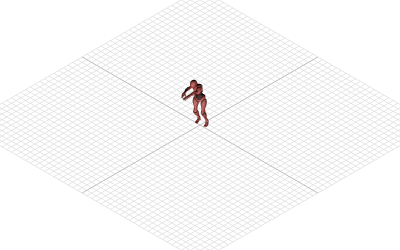
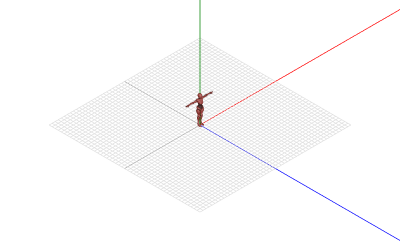
feat: :sparkles: animate control

diff --git a/src/animate/animateControl.js b/src/animate/animateControl.js
@@ -2,7 +2,7 @@
  * @Author: wuyifan0203 1208097313@qq.com
  * @Date: 2024-10-31 11:16:20
  * @LastEditors: wuyifan0203 1208097313@qq.com
- * @LastEditTime: 2024-11-04 18:17:51
+ * @LastEditTime: 2024-11-05 15:20:31
  * @FilePath: \threejs-demo\src\animate\animateControl.js
  * Copyright (c) 2024 by wuyifan email: 1208097313@qq.com, All Rights Reserved.
  */
@@ -55,21 +55,20 @@ const keyPressed = {
 async function init() {
   const renderer = initRenderer({});
 
-  const defaultPosition = new Vector3(100, -100, 100)
+  const defaultPosition = new Vector3(-100, 100, 100)
 
   const camera = initOrthographicCamera(defaultPosition);
   camera.lookAt(0, 0, 0);
-  camera.up.set(0, 0, 1);
-  camera.zoom = 0.5;
   camera.updateProjectionMatrix();
 
   const scene = initScene();
-  initCustomGrid(scene);
+  const grid = initCustomGrid(scene);
+  grid.rotateX(Math.PI / 2);
   initAxesHelper(scene);
   const orbitControl = initOrbitControls(camera, renderer.domElement);
 
   const light = initDirectionLight();
-  light.position.set(45, -50, 0);
+  light.position.copy(defaultPosition);
   scene.add(light);
 
   const loader = new FBXLoader();
@@ -77,8 +76,6 @@ async function init() {
   const walkGroup = await loader.loadAsync(`../../${modelPath}/ZombieWalk.fbx`);
   walkGroup.scale.set(0.05, 0.05, 0.05);
   const model = new Object3D();
-  model.up.set(0, 0, 1);
-  model.lookAt(0, 1, 0);
   model.add(walkGroup);
   scene.add(model);
 
@@ -143,7 +140,6 @@ async function init() {
     Object.values(actionMap).forEach((action) => {
       action.timeScale = 1;
       action.reset();
-      action.play();
     });
 
     params.currentActionTimeScale = mixer.timeScale = 1;
@@ -154,15 +150,23 @@ async function init() {
   function changeMode() {
     if (params.mode === 'common') {
       commonFolder.show();
-      // orbitControl.enabled = true;
+      orbitControl.enabled = true;
+      changeAction();
+      camera.zoom = 0.5;
+      orbitControl.target.set(0, 0, 0);
+      camera.position.copy(defaultPosition);
+      orbitControl.update();
+      camera.updateProjectionMatrix();
     } else {
       commonFolder.hide();
       model.position.set(0, 0, 0);
       orbitControl.target.set(0, 0, 0);
       camera.position.copy(defaultPosition);
+      camera.zoom = 0.32;
       orbitControl.update();
-      // orbitControl.enabled = false;
-      idleAction.fadeIn(0.5);
+      camera.updateProjectionMatrix();
+      orbitControl.enabled = false;
+      idleAction.reset().fadeIn(0.5).play();
       currentAction = idleAction;
     }
   }
@@ -180,6 +184,7 @@ async function init() {
     if (walkKey.includes(key)) {
       startWalking();
     }
+    walkAction.timeScale = keyPressed.shift ? 5 : 1; // 如果按下Shift键，加速动画播放速度
     updateSpeed();
   });
 
@@ -188,7 +193,6 @@ async function init() {
       crossFade(idleAction, walkAction, 0.5);
       isWalking = true
     }
-    walkAction.setEffectiveTimeScale(keyPressed.shift ? 3 : 1); // 如果按下Shift键，加速动画播放速度
     updateDirection(model);
   }
 
@@ -200,7 +204,7 @@ async function init() {
       stopWalking();
     }
     if (isWalking) {
-      walkAction.setEffectiveTimeScale(keyPressed.shift ? 3 : 1); // 如果按下Shift键，加速动画播放速度
+      walkAction.timeScale = keyPressed.shift ? 5 : 1; // 如果按下Shift键，加速动画播放速度
     }
     updateSpeed();
   });
@@ -228,7 +232,7 @@ async function init() {
     mixer.update(delta);
 
     if (isWalking && direction.lengthSq() > 0) {
-      translate.copy(direction).multiplyScalar(speed * delta);
+      translate.copy(direction).multiplyScalar(delta * speed)
       rotateMatrix.lookAt(translate, zero, model.up);
       targetQuaternion.setFromRotationMatrix(rotateMatrix);
       model.quaternion.slerp(targetQuaternion, 0.5);
@@ -237,19 +241,18 @@ async function init() {
   }
 
   renderer.setAnimationLoop(render);
-  changeMode();
   reset();
-  changeAction();
+  changeMode();
   resize(renderer, camera);
 }
 
 function updateDirection() {
   direction.set(0, 0, 0);
 
-  if (keyPressed.w) direction.y += 1;
-  if (keyPressed.s) direction.y -= 1;
-  if (keyPressed.a) direction.x -= 1;
-  if (keyPressed.d) direction.x += 1;
+  if (keyPressed.w) direction.x += 1;
+  if (keyPressed.s) direction.x -= 1;
+  if (keyPressed.a) direction.z -= 1;
+  if (keyPressed.d) direction.z += 1;
 
   direction.normalize();
 }

diff --git a/src/animate/animateControl.html b/src/animate/animateControl.html
@@ -2,7 +2,7 @@
  * @Author: wuyifan0203 1208097313@qq.com
  * @Date: 2024-10-31 11:16:12
  * @LastEditors: wuyifan0203 1208097313@qq.com
- * @LastEditTime: 2024-11-01 15:31:52
+ * @LastEditTime: 2024-11-05 15:21:27
  * @FilePath: \threejs-demo\src\animate\animateControl.html
  * Copyright (c) 2024 by wuyifan email: 1208097313@qq.com, All Rights Reserved.
 -->
@@ -38,7 +38,7 @@
     <div id="webgl-output">
         <div id="info"> 
             <p>Effective Duration = clip.duration / (action.timeScale * mixer.timeScale )</p>
-            <p>Control use key 'W' 'A' 'S' 'D' 'Shift'</p>
+            <p>Control Mode use key 'W' 'A' 'S' 'D' 'Shift'</p>
         </div>
     </div>
     <script src="./animateControl.js" type="module"></script>

diff --git a/pageList.js b/pageList.js
@@ -19,7 +19,7 @@ const list = [
       },
       {
         path: "/animate/animateControl.html",
-        title: "Animate Control (WIP)",
+        title: "Animate Control",
       },
       {
         path: "/tween/portal.html",
